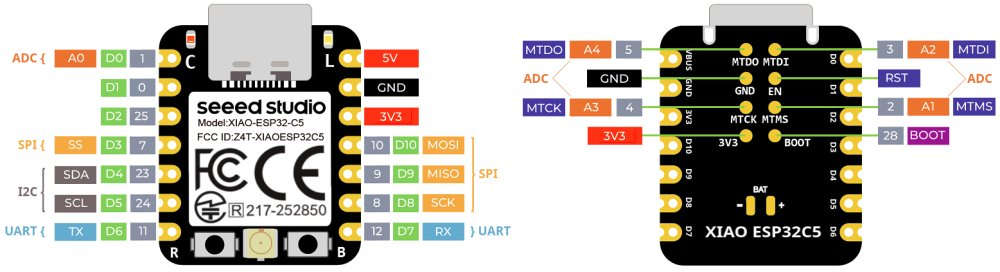
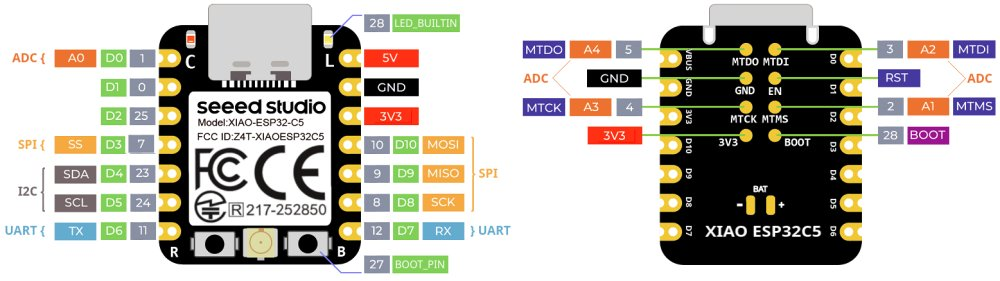
Bigger pinout with legend

Changed region(s): [[0.0, 0.0294, 0.527, 1.0], [0.527, 0.1176, 1.0, 1.0], [0.651, 0.0882, 0.868, 0.1176]]

diff --git a/README.md b/README.md
@@ -10,7 +10,7 @@
 
 The [XIAO ESP32C5](https://www.seeedstudio.com/Seeed-Studio-XIAO-ESP32C5-p-6609.html) is a recent addition (Jan 16, 2026) to the [Seeed Studio XIAO series](https://www.seeedstudio.com/xiao-series-page) of diminutive development boards. As with the other ESP32-C series SoC it is  based on a RISC-V core.
 
-![](images/xiao_esp32c5_pinout.jpg)
+[![](images/xiao_esp32c5_pinout.jpg)](images/xiao_esp32c5_pinout_legend.jpg)
 
 ## PlatformIO Notes
 
